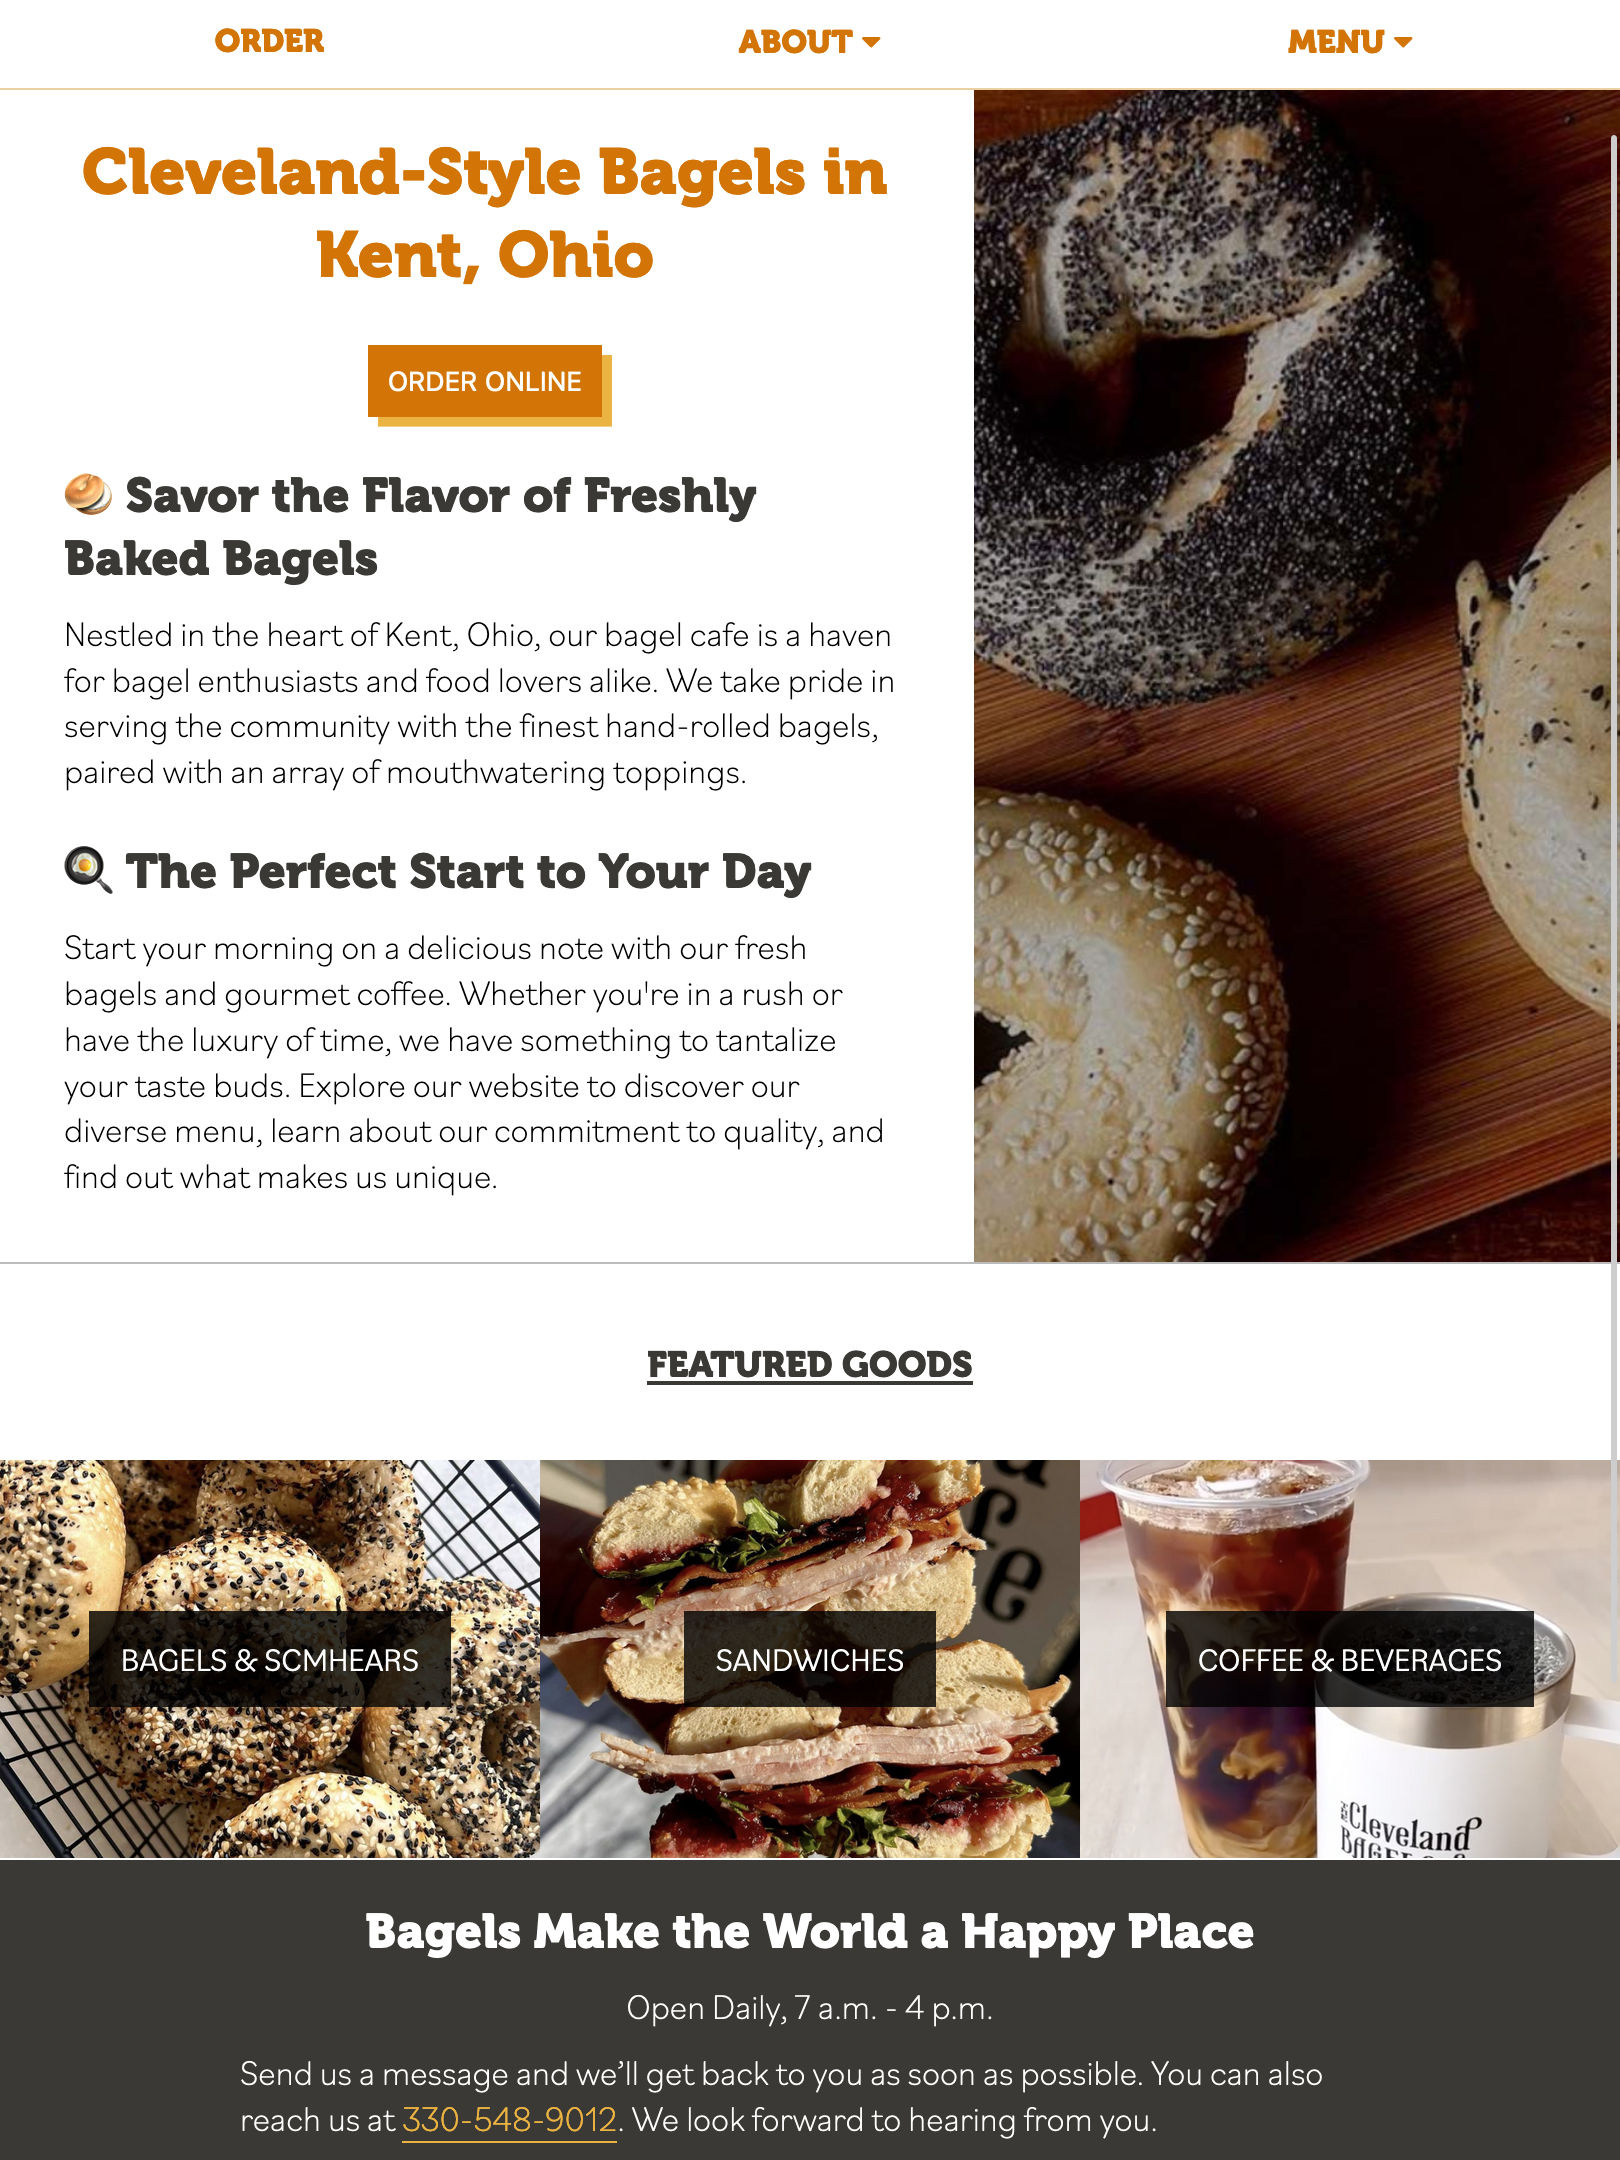
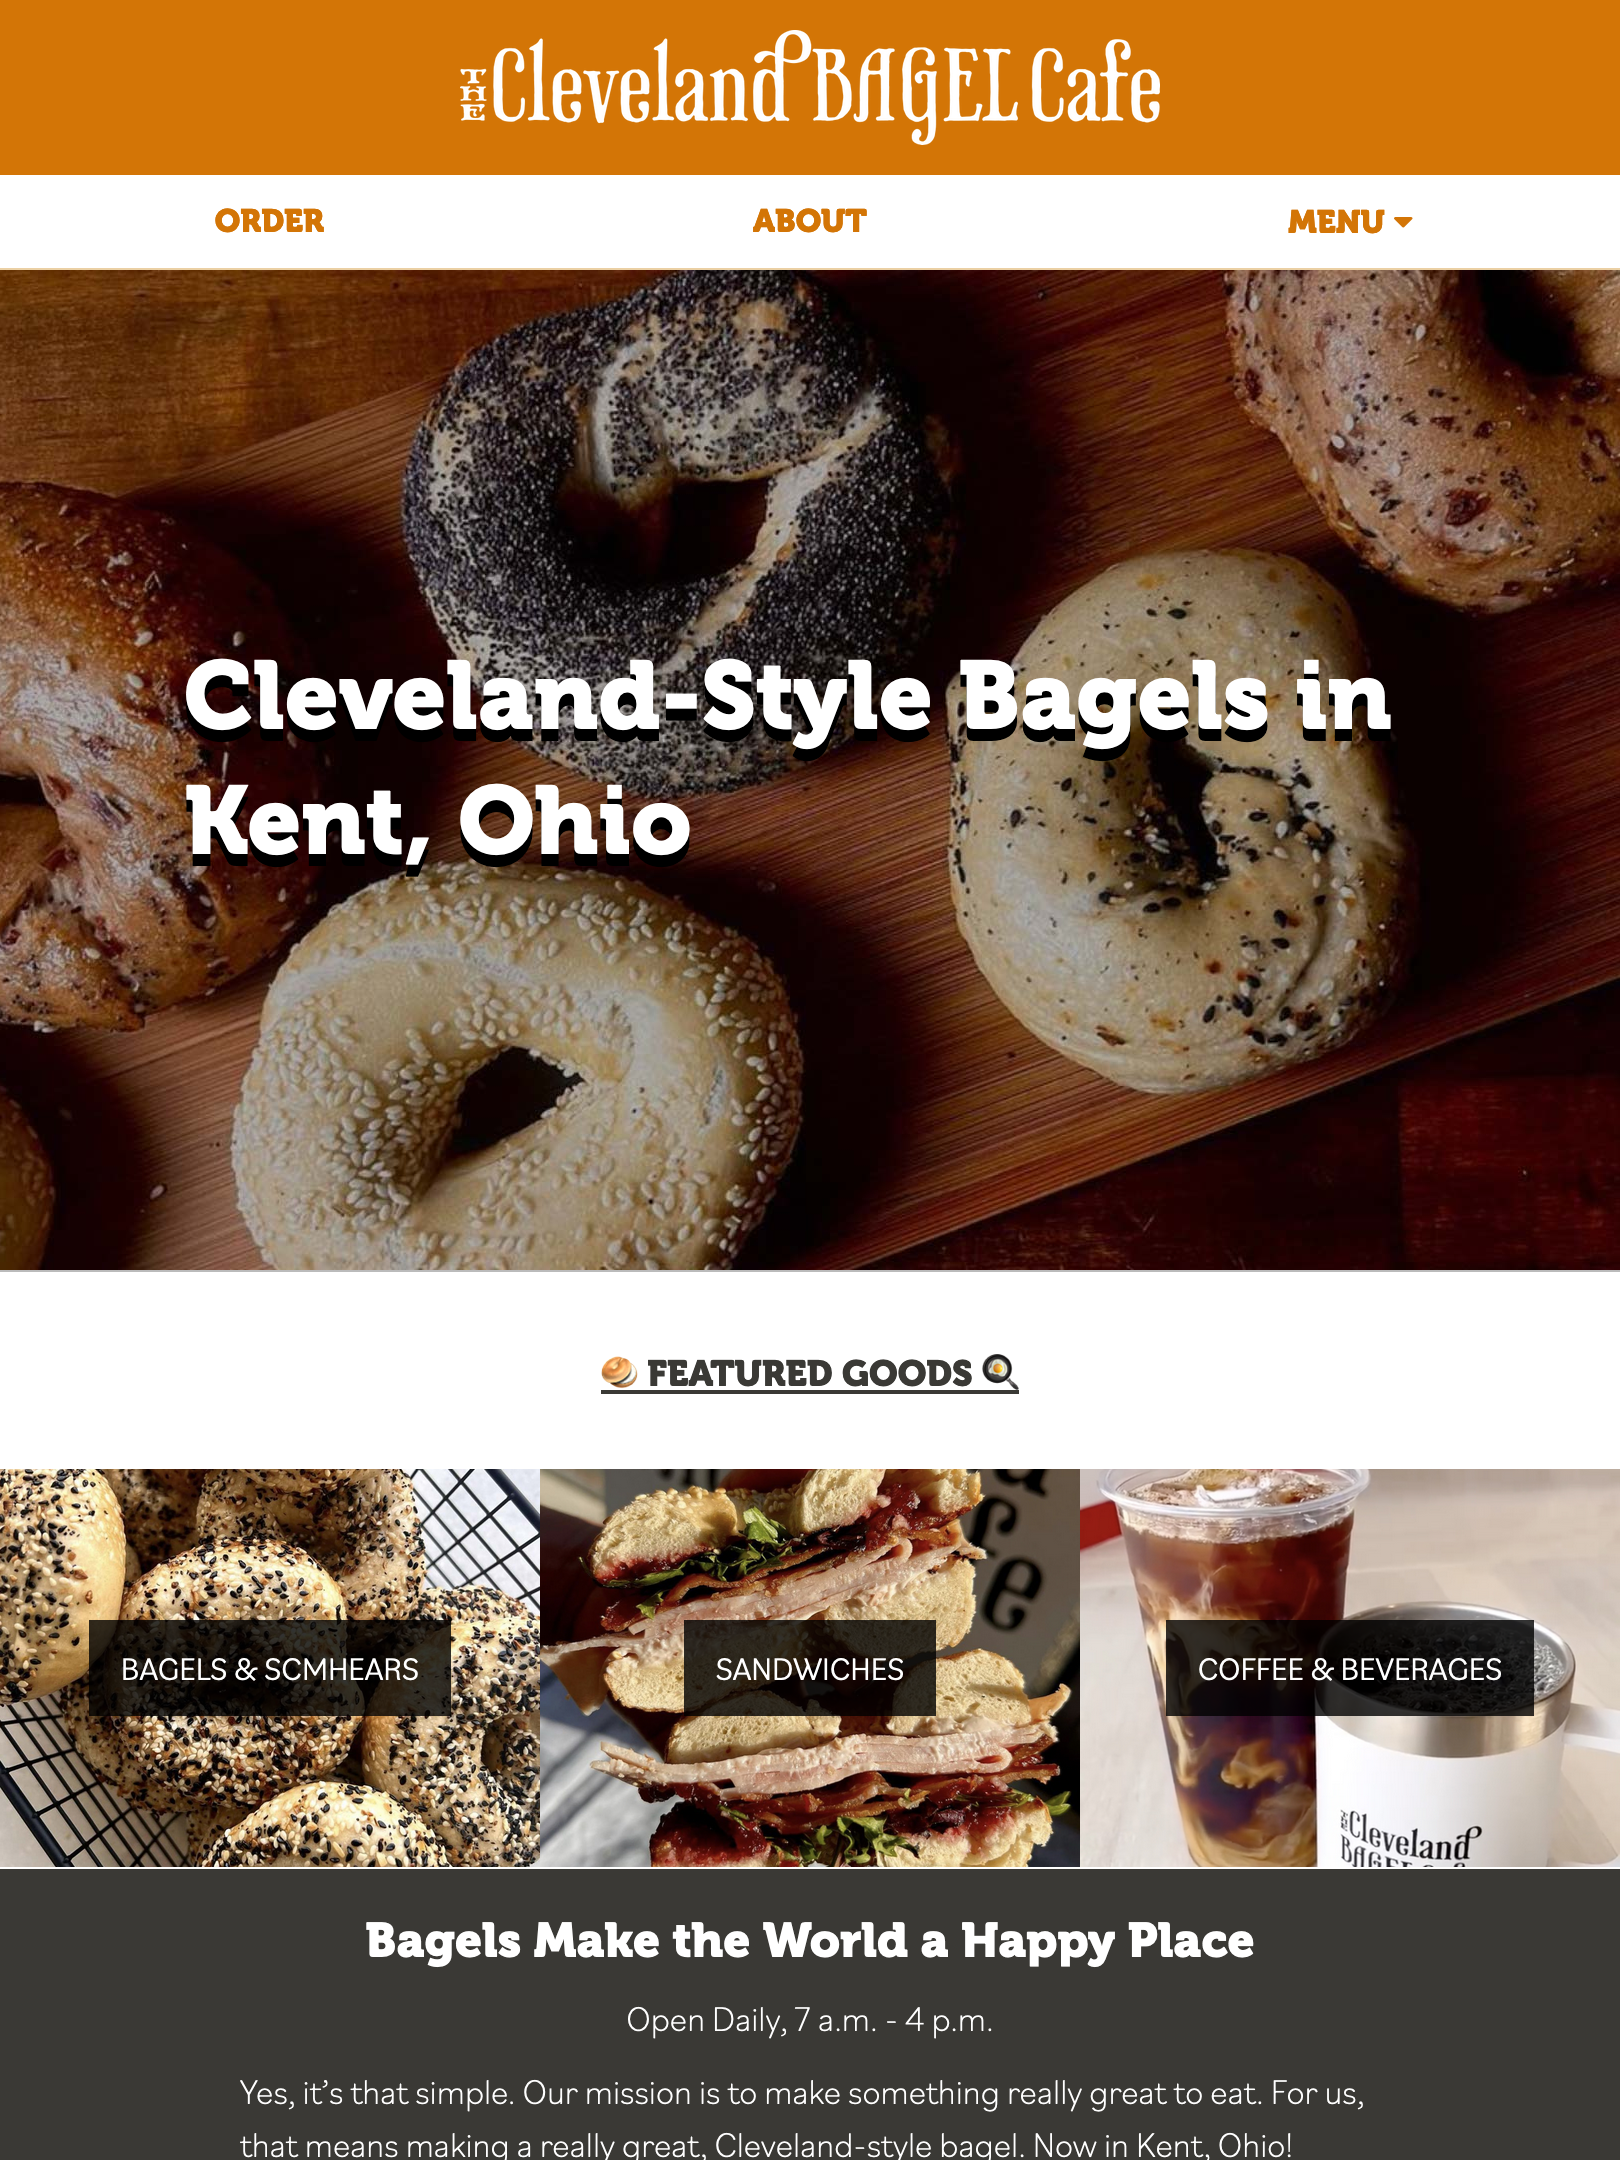
Adding bagel redesign.

diff --git a/index.html b/index.html
@@ -42,7 +42,7 @@
 					 > Welcome to my humble corner of the web.
 				</p>
 				<p>
-					 > My name is Eddie Lampert, and I specialize in web and interactive design. Feel free to look around.
+					 > My name is Eddie Lampert, and I specialize in web and interactive design. Feel free to look around at my work.
 				</p>
 			</div>
 			</section>
@@ -117,7 +117,7 @@
 
 		<section>
 			<h2>I'm in. Are you?</h2>
-			<p id="contact">Feel free to <a href="mailto:edblampert@gmail.com">get in touch with me</a>. Let's make something together.</p>
+			<p id="contact">Feel free to <a href="mailto:edblampert@gmail.com">get in touch with me</a>. Let's make something cool.</p>
 		</section>
 		<footer>
 

diff --git a/seasons.html b/seasons.html
@@ -37,7 +37,7 @@
 					<h4>
 						We spend all summer waiting for winter, and all winter waiting for
 						summer. Why not enjoy the present?<br />
-						A simple soundboard made with React JavaScript.
+						A simple soundboard made with React JavaScript.<br />
 						<i
 							>View
 							<a href="https://cwyptid.github.io/seasons" target="_blank"

diff --git a/bagel.html b/bagel.html
@@ -67,7 +67,7 @@
 			<div class="index_body project-internal">
 				<div style="padding-top: 10px">
 					<img src="./images/clebagel/clebagel.png" />
-					<img src="./images/clebagel/screenshot4.png" />
+					<img src="./images/clebagel/desktop.png" />
 					<div class="project_left_jmc">
 						<img src="./images/clebagel/mobile.png" />
 					</div>
